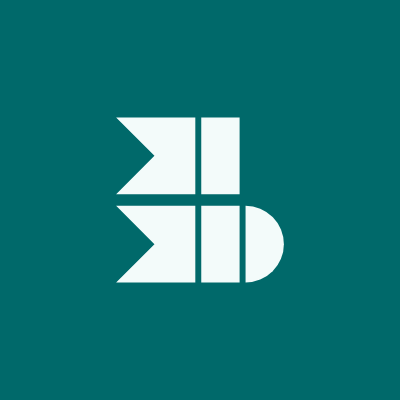
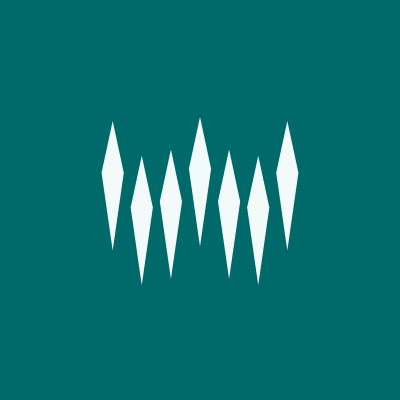
New mark: seven compass needles on a w
The logo is now seven compass needles, the seven stars of the Plough that point
north. Sharp at both ends, one tone, all the same length; their feet stand on a
smooth w and their points repeat it, so they read as spruce, an aurora curtain
and the w of boreal.work. Rebalanced on the 32 grid for the optical centre so
the favicon no longer sits high.

MARK_PATHS holds the seven needles. The eyebrow is NeedleMark (one needle laid
on its side, pointing at the label), bullets are PointMark (the north point),
and the card hover slides in a needle. Regenerated the brand SVGs, icon.svg,
favicon.ico, apple-icon.png, the share image mark and the X stills; brand.md
and tokens.json describe the new construction.

Changed region(s): [[0.24, 0.27, 0.75, 0.72]]

diff --git a/apps/web/src/components/brand.tsx b/apps/web/src/components/brand.tsx
@@ -1,52 +1,51 @@
 import Link from "next/link";
 
 /**
- * The boreal.work mark: two rockets moving forward in step. The top band is the AI agent (square head),
- * the bottom band is the person (a load and a round head, flying out ahead). Bodies light, heads solid.
- * Gaps: 0.9 units within a band, 1.75 between the bands (32 grid); see brand.md, "Logo". Also in icon.svg, opengraph-image.tsx
- * and apps/film/src/XProfile.tsx: keep the paths in sync.
+ * The boreal.work mark: seven compass needles, the seven stars of the Plough that point travellers
+ * north. Each needle is sharp at both ends, widest 40% below its north point, all the same length
+ * (17.5 units). Their feet stand on a smooth w and their points repeat it higher up: grouped they
+ * stand like spruce, and they hang like an aurora curtain. One tone. Rebalanced on the 32 grid so
+ * it sits in the optical centre (box centre and mass centre averaged). See brand.md, "Logo".
+ * Also in icon.svg, opengraph-image.tsx and apps/film/src/XProfile.tsx: keep the paths in sync.
  */
 export const MARK_PATHS = {
-  topTail: "M3.29 3.5H15.29V15.125H3.29L9.1 9.31Z",
-  topHead: "M16.19 3.5H22V15.125H16.19Z",
-  botTail: "M3.29 16.875H15.29V28.5H3.29L9.1 22.69Z",
-  botLoad: "M16.19 16.875H22V28.5H16.19Z",
-  botHead: "M22.9 16.875A5.81 5.81 0 0 1 22.9 28.5Z",
+  needles: [
+    "M4.2 22.83L2.7 12.33L4.2 5.33L5.7 12.33Z",
+    "M8.13 27.52L6.63 17.02L8.13 10.02L9.63 17.02Z",
+    "M12.07 26.69L10.57 16.19L12.07 9.19L13.57 16.19Z",
+    "M16 22.27L14.5 11.77L16 4.77L17.5 11.77Z",
+    "M19.93 26.69L18.43 16.19L19.93 9.19L21.43 16.19Z",
+    "M23.87 27.52L22.37 17.02L23.87 10.02L25.37 17.02Z",
+    "M27.8 22.83L26.3 12.33L27.8 5.33L29.3 12.33Z",
+  ],
 } as const;
 
 export function BorealMark({ className = "size-6" }: { className?: string }) {
   return (
     <svg viewBox="0 0 32 32" className={className} aria-hidden="true">
-      <g className="fill-primary">
-        <path d={MARK_PATHS.topTail} />
-        <path d={MARK_PATHS.topHead} />
-        <path d={MARK_PATHS.botTail} />
-        <path d={MARK_PATHS.botLoad} />
-        <path d={MARK_PATHS.botHead} />
-      </g>
+      <path className="fill-primary" d={MARK_PATHS.needles.join("")} />
     </svg>
   );
 }
 
 /**
- * The eyebrow mark: the logo's first band on its own, its notched tail faded and its square tip
- * solid, like a bookmark ribbon on the label. The only place the mark keeps two tones; the logo
- * itself is one. Both pieces are the mark's own paths, never redrawn. On arrival the band unrolls
- * from its notched end, once (globals.css: .ribbon-mark); still for less motion.
+ * The eyebrow mark: one needle from the logo, laid on its side so it points at the label, the way
+ * the work moves. Same proportions as the mark's needles (17.5 long, 3 wide, widest 7 from the point).
+ * On arrival it slides out from its tail, once (globals.css: .needle-mark); still for less motion.
  */
-export function RibbonMark({ className = "h-2.5 w-auto" }: { className?: string }) {
+export function NeedleMark({ className = "h-auto w-5" }: { className?: string }) {
   return (
-    <svg viewBox="3.29 3.5 18.71 11.625" className={`ribbon-mark ${className}`} aria-hidden="true">
-      <path d={MARK_PATHS.topTail} fill="currentColor" opacity={0.45} />
-      <path d={MARK_PATHS.topHead} fill="currentColor" />
+    <svg viewBox="0 0 17.5 3" className={`needle-mark ${className}`} aria-hidden="true">
+      <path d="M0 1.5L10.5 0L17.5 1.5L10.5 3Z" fill="currentColor" />
     </svg>
   );
 }
 
-export function HeadMark({ className = "size-2" }: { className?: string }) {
+/** A bullet: the needle's north point alone, a short compass diamond. */
+export function PointMark({ className = "h-2.5 w-1.25" }: { className?: string }) {
   return (
-    <svg viewBox="22.9 16.875 5.81 11.625" className={className} aria-hidden="true">
-      <path d={MARK_PATHS.botHead} className="fill-current" />
+    <svg viewBox="0 0 4 8" className={className} aria-hidden="true">
+      <path d="M2 8L0 3.2L2 0L4 3.2Z" className="fill-current" />
     </svg>
   );
 }
@@ -64,7 +63,7 @@ export function BorealLogo() {
 export function Eyebrow({ children }: { children: React.ReactNode }) {
   return (
     <p className="flex items-center gap-2.5 font-mono text-xs font-medium tracking-[0.18em] text-primary uppercase">
-      <RibbonMark />
+      <NeedleMark />
       {children}
     </p>
   );

diff --git a/apps/web/src/app/tasks/[id]/page.tsx b/apps/web/src/app/tasks/[id]/page.tsx
@@ -7,7 +7,7 @@ import { notFound } from "next/navigation";
 import { Suspense } from "react";
 
 import { claimTask, disputeVerdict, releaseTask, submitResult } from "@/app/actions";
-import { HeadMark } from "@/components/brand";
+import { PointMark } from "@/components/brand";
 import { RelatedQuestions } from "@/components/related-questions";
 import { PrivateReviewNote } from "@/components/private-review";
 import { TxLink } from "@/components/tx-link";
@@ -323,7 +323,7 @@ async function TaskDetail({ params }: { params: Promise<{ id: string }> }) {
       <div className="flex flex-col gap-6 lg:order-1">
         <div className="flex flex-col gap-3">
           <h1 className="text-3xl leading-tight font-light tracking-[-0.03em] text-balance sm:text-4xl">{task.description}</h1>
-          {/* Then when it's due and the quiet facts on one line, and what it needs with the brand's round head. */}
+          {/* Then when it's due and the quiet facts on one line, and what it needs with the needle's point. */}
           {(() => {
             const facts = [
               `Due ${when(task.deadline)}`,
@@ -343,7 +343,7 @@ async function TaskDetail({ params }: { params: Promise<{ id: string }> }) {
                 <p>{facts.join(" · ")}</p>
                 {needs.length > 0 && (
                   <p className="flex items-center gap-2 text-foreground">
-                    <HeadMark className="h-2.5 w-1.25 text-primary" /> Needs {needs.join(" · ")}
+                    <PointMark className="h-2.5 w-1.25 text-primary" /> Needs {needs.join(" · ")}
                   </p>
                 )}
               </div>

diff --git a/apps/web/src/app/globals.css b/apps/web/src/app/globals.css
@@ -228,21 +228,21 @@
 }
 
 
-/* The eyebrow's ribbon (components/brand.tsx, RibbonMark): the logo's first chevron unrolls from
-   its notched end when the label arrives, once. */
-.ribbon-mark {
-  animation: ribbon-in 700ms cubic-bezier(0.16, 1, 0.3, 1) both;
+/* The eyebrow's needle (components/brand.tsx, NeedleMark): one needle from the logo slides out
+   from its tail toward the label when it arrives, once. */
+.needle-mark {
+  animation: needle-in 700ms cubic-bezier(0.16, 1, 0.3, 1) both;
 }
-@keyframes ribbon-in {
+@keyframes needle-in {
   from { clip-path: inset(0 100% 0 0); }
   to { clip-path: inset(0 0 0 0); }
 }
 @media (prefers-reduced-motion: reduce) {
-  .ribbon-mark { animation: none; }
+  .needle-mark { animation: none; }
 }
 
-/* The brand's card (task cards and other lists you can open): on hover the mark's round head slides
-   in at the card's left edge, the semicircle from the logo, instead of a lift or a glow. */
+/* The brand's card (task cards and other lists you can open): on hover one of the mark's needles
+   slides in at the card's left edge, pointing into the card, instead of a lift or a glow. */
 .brand-card {
   position: relative;
   isolation: isolate;
@@ -253,9 +253,9 @@
   position: absolute;
   left: 0;
   top: 1.75rem;
-  width: 0.5rem;
-  height: 1rem;
-  border-radius: 0 999px 999px 0;
+  width: 1.25rem;
+  height: 0.375rem;
+  clip-path: polygon(0 50%, 60% 0, 100% 50%, 60% 100%);
   background: var(--primary);
   transform: translateX(-100%);
   transition: transform 400ms cubic-bezier(0.16, 1, 0.3, 1);

diff --git a/apps/film/src/XProfile.tsx b/apps/film/src/XProfile.tsx
@@ -13,14 +13,16 @@ const NIGHT = "#0b2326";
 const NIGHT_DEEP = "#061416";
 const SNOW = "#f3fbfa";
 
-/** The site's mark (apps/web/src/components/brand.tsx, MARK_PATHS): two rockets in step, one tone. */
+/** The site's mark (apps/web/src/components/brand.tsx, MARK_PATHS): seven compass needles, one tone. */
 const Mark = ({ color = SNOW }: { color?: string }) => (
   <g fill={color}>
-    <path d="M3.29 3.5H15.29V15.125H3.29L9.1 9.31Z" />
-    <path d="M16.19 3.5H22V15.125H16.19Z" />
-    <path d="M3.29 16.875H15.29V28.5H3.29L9.1 22.69Z" />
-    <path d="M16.19 16.875H22V28.5H16.19Z" />
-    <path d="M22.9 16.875A5.81 5.81 0 0 1 22.9 28.5Z" />
+    <path d="M4.2 22.83L2.7 12.33L4.2 5.33L5.7 12.33Z" />
+    <path d="M8.13 27.52L6.63 17.02L8.13 10.02L9.63 17.02Z" />
+    <path d="M12.07 26.69L10.57 16.19L12.07 9.19L13.57 16.19Z" />
+    <path d="M16 22.27L14.5 11.77L16 4.77L17.5 11.77Z" />
+    <path d="M19.93 26.69L18.43 16.19L19.93 9.19L21.43 16.19Z" />
+    <path d="M23.87 27.52L22.37 17.02L23.87 10.02L25.37 17.02Z" />
+    <path d="M27.8 22.83L26.3 12.33L27.8 5.33L29.3 12.33Z" />
   </g>
 );
 
@@ -29,7 +31,7 @@ export const XAvatar = () => (
     <svg viewBox="0 0 400 400" width={400} height={400}>
       {/* Flat Aurora Teal; X crops to a circle, so the mark sits centred with room to breathe. */}
       <rect width="400" height="400" fill={TEAL} />
-      <g transform="translate(200 200) scale(6.6) translate(-16 -16)">
+      <g transform="translate(200 200) scale(7.4) translate(-16 -16)">
         <Mark />
       </g>
     </svg>

diff --git a/apps/web/src/app/opengraph-image.tsx b/apps/web/src/app/opengraph-image.tsx
@@ -36,13 +36,15 @@ export default function OpengraphImage() {
           <path d={trees} fill="#4a7b78" />
         </svg>
         <div style={{ display: "flex", alignItems: "center", gap: 16, fontSize: 34, color: "#1b2a30", fontWeight: 600 }}>
-          {/* The mark (components/brand.tsx, MARK_PATHS): one tone. */}
+          {/* The mark (components/brand.tsx, MARK_PATHS): seven needles, one tone. */}
           <svg width="52" height="52" viewBox="0 0 32 32">
-            <path d="M3.29 3.5H15.29V15.125H3.29L9.1 9.31Z" fill="#00696a" />
-            <path d="M16.19 3.5H22V15.125H16.19Z" fill="#00696a" />
-            <path d="M3.29 16.875H15.29V28.5H3.29L9.1 22.69Z" fill="#00696a" />
-            <path d="M16.19 16.875H22V28.5H16.19Z" fill="#00696a" />
-            <path d="M22.9 16.875A5.81 5.81 0 0 1 22.9 28.5Z" fill="#00696a" />
+            <path d="M4.2 22.83L2.7 12.33L4.2 5.33L5.7 12.33Z" fill="#00696a" />
+            <path d="M8.13 27.52L6.63 17.02L8.13 10.02L9.63 17.02Z" fill="#00696a" />
+            <path d="M12.07 26.69L10.57 16.19L12.07 9.19L13.57 16.19Z" fill="#00696a" />
+            <path d="M16 22.27L14.5 11.77L16 4.77L17.5 11.77Z" fill="#00696a" />
+            <path d="M19.93 26.69L18.43 16.19L19.93 9.19L21.43 16.19Z" fill="#00696a" />
+            <path d="M23.87 27.52L22.37 17.02L23.87 10.02L25.37 17.02Z" fill="#00696a" />
+            <path d="M27.8 22.83L26.3 12.33L27.8 5.33L29.3 12.33Z" fill="#00696a" />
           </svg>
           boreal.work
         </div>

diff --git a/apps/web/src/components/task-card.tsx b/apps/web/src/components/task-card.tsx
@@ -3,7 +3,7 @@ import type { RequesterKind } from "@boreal/desk";
 import { ArrowRight, BadgeCheck, Camera, Clock, FileText, PenLine, Store, UserCheck } from "lucide-react";
 import Link from "next/link";
 
-import { HeadMark } from "@/components/brand";
+import { PointMark } from "@/components/brand";
 import { Badge } from "@/components/ui/badge";
 import { attributeLabel, usd, when, WORKER_STATUS } from "@/lib/format";
 import { RAIL_LABEL } from "@/lib/rails";
@@ -22,8 +22,8 @@ const POSTED_BY: Partial<Record<RequesterKind, { icon: typeof BadgeCheck; label:
 
 /**
  * A task as a worker scans it: what to do and the pay first, then the format and deadline, then
- * one quiet line for what it needs and how it pays. The whole card is the link; on hover the
- * brand's round head slides in at its edge (globals.css: .brand-card).
+ * one quiet line for what it needs and how it pays. The whole card is the link; on hover
+ * a needle from the mark slides in at its edge (globals.css: .brand-card).
  */
 export function TaskCard({
   task,
@@ -79,7 +79,7 @@ export function TaskCard({
           )}
           {needs.length > 0 && (
             <span className="flex items-center gap-2 text-foreground">
-              <HeadMark className="h-2.5 w-1.25 shrink-0 text-primary" />
+              <PointMark className="h-2.5 w-1.25 shrink-0 text-primary" />
               Needs {needs.join(" · ")}
             </span>
           )}

diff --git a/apps/web/src/app/signin/page.tsx b/apps/web/src/app/signin/page.tsx
@@ -6,7 +6,7 @@ import { Suspense } from "react";
 import { signIn } from "@/app/actions";
 import { RelatedQuestions } from "@/components/related-questions";
 import { PayPalLoginButton } from "@/components/paypal-brand";
-import { Eyebrow, HeadMark } from "@/components/brand";
+import { Eyebrow, PointMark } from "@/components/brand";
 import { ConcordiumSignIn } from "@/components/concordium-sign-in";
 import { ConcordiumWalletSignIn } from "@/components/concordium-wallet-sign-in";
 import { ZkPassportSignIn } from "@/components/zkpassport-sign-in";
@@ -200,7 +200,7 @@ export default function SignInPage({ searchParams }: { searchParams: Promise<{ n
             <ul className="flex flex-col gap-2 text-sm text-muted-foreground">
               {["A one-way code for your account", "Your PayPal email, only to pay you", "Whether PayPal has verified you"].map((item) => (
                 <li key={item} className="flex gap-2.5">
-                  <HeadMark className="mt-1.5 h-2.5 w-1.25 shrink-0 text-primary" /> {item}
+                  <PointMark className="mt-1.5 h-2.5 w-1.25 shrink-0 text-primary" /> {item}
                 </li>
               ))}
             </ul>

diff --git a/apps/web/src/components/page.tsx b/apps/web/src/components/page.tsx
@@ -1,7 +1,7 @@
 import { ArrowRight, ChevronDown, ChevronRight } from "lucide-react";
 import Link from "next/link";
 
-import { RibbonMark } from "@/components/brand";
+import { NeedleMark } from "@/components/brand";
 import { buttonVariants } from "@/components/ui/button";
 import { cn } from "@/lib/utils";
 
@@ -14,11 +14,11 @@ export function Container({ className, children }: { className?: string; childre
   return <div className={cn("mx-auto w-full max-w-[1280px] px-5 sm:px-8 lg:px-12", className)}>{children}</div>;
 }
 
-/** A small label above a heading: the trail mark (the person's head, flying forward), then the words. */
+/** A small label above a heading: one needle from the logo, pointing at the words, then the words. */
 export function Kicker({ children, className }: { children: React.ReactNode; className?: string }) {
   return (
     <p className={cn("flex items-center gap-2.5 font-mono text-xs font-medium tracking-[0.18em] text-primary uppercase", className)}>
-      <RibbonMark />
+      <NeedleMark />
       {children}
     </p>
   );

diff --git a/apps/web/src/app/page.tsx b/apps/web/src/app/page.tsx
@@ -2,7 +2,7 @@ import { FEE_POLICY, POLICY, quoteFees } from "@boreal/core";
 import type { Metadata } from "next";
 import { ArrowRight, ArrowUpRight } from "lucide-react";
 
-import { HeadMark } from "@/components/brand";
+import { PointMark } from "@/components/brand";
 import { NightBackdrop } from "@/components/night-backdrop";
 import { ClosingBand } from "@/components/closing-band";
 import { CopyBlock } from "@/components/copy-block";
@@ -182,7 +182,7 @@ export default function Home() {
             <ul className="flex flex-wrap gap-x-5 gap-y-2 text-sm text-foreground/75">
               {["Workers keep 100% of their pay", `One fee: ${SERVICE_FEE}`, "Every fail cites a rule"].map((point) => (
                 <li key={point} className="flex items-center gap-2">
-                  <HeadMark className="h-2.5 w-1.25 text-primary" />
+                  <PointMark className="h-2.5 w-1.25 text-primary" />
                   {point}
                 </li>
               ))}

diff --git a/apps/web/src/components/mobile-menu.tsx b/apps/web/src/components/mobile-menu.tsx
@@ -6,7 +6,7 @@ import { usePathname } from "next/navigation";
 import { useEffect, useState, useSyncExternalStore } from "react";
 import { createPortal } from "react-dom";
 
-import { HeadMark } from "@/components/brand";
+import { PointMark } from "@/components/brand";
 import { NAV } from "@/components/nav-links";
 import { cn } from "@/lib/utils";
 
@@ -79,7 +79,7 @@ export function MobileMenu() {
                 )}
               >
                 {item.label}
-                {current && <HeadMark className="h-3 w-1.5 text-primary" />}
+                {current && <PointMark className="h-3 w-1.5 text-primary" />}
               </Link>
             );
           })}

diff --git a/brand.md b/brand.md
@@ -4,7 +4,7 @@
 
 boreal.work is a verified human task desk for AI agents. Agents post the real-world steps they can't do alone, verified people (many of them in the Philippines, on phones) do them, and the money is held in escrow until the result passes review against a public rulebook. Everything here serves one feeling: **calm, trustworthy, human, northern.** Never crypto-flashy.
 
-Status: active · palette chosen 2026-11-01 · logo chosen 2026-11-12
+Status: active · palette chosen 2026-11-01 · logo chosen 2026-11-13
 
 **These rules are strict.** Every page, deck, film, post and agent-written screen follows them. When this book and a habit disagree, this book wins. When it is silent, choose the quieter option. This file is the source of truth; the brand kit (logo files, tokens, social images) is in [`docs/brand/`](docs/brand/).
 
@@ -29,7 +29,7 @@ Status: active · palette chosen 2026-11-01 · logo chosen 2026-11-12
 
 ### The idea
 
-Two rockets moving forward in step. The **top band is the AI agent**: a notched tail and a **square head**. The **bottom band is the person**: the same tail, a rectangular **load**, and a **round head** that flies out ahead. The agent sets the work going; the person carries it over the line. Bodies are in the light tone and heads are solid. The short top over the longer, rounded bottom also reads as a **b**.
+Seven compass needles: the seven stars of the Plough, the Great Bear's tail that travellers follow to find north. Every needle points north, the way the work moves: forward. Grouped, they stand like a ridge of **spruce**, the boreal forest. Their feet stand on a smooth **w** and their points repeat it higher up, so the whole mark hangs like an **aurora** curtain, and spells the w of boreal.work. North, trees and the northern lights in one shape.
 
 ### Files
 
@@ -46,10 +46,11 @@ Use these files or `BorealMark`. Never redraw the mark by eye.
 
 ### Construction
 
-- A 32-unit grid. Each band is 11.625 units tall.
-- 1.75 units between the two bands; 0.9 units between the pieces inside a band, so each band reads as one body.
-- Both tails start on the same line. The agent's square head sits exactly over the person's load. The round head is the only piece beyond that column.
-- One tone: every piece in the full ink (white on the teal tile). The gaps between pieces carry the shape. The two-tone first band (faded tail, solid head) is kept for the eyebrow mark only.
+- A 32-unit grid. Seven needles, evenly spaced, 3.93 units apart, centre to centre.
+- Each needle is a long lozenge, sharp at both ends: 17.5 units long, 3 units wide at its widest, which is 7 units (40%) below its north point. All seven are the same length.
+- The feet sit on one smooth w (two valleys, a shallower middle peak); the points repeat that w 17.5 units higher.
+- Rebalanced for the optical centre: the mark is placed so the midpoint of its box centre and its mass centre falls on the grid centre, since the needles are heaviest high up.
+- One tone: every needle in the full ink (white on the teal tile). No gradient, outline or second tone. On the app tile the mark is scaled to 84%.
 
 ### Lockup
 
@@ -57,16 +58,16 @@ Mark, then **boreal.work** in Manrope semibold. In the header the mark is 24 px 
 
 ### Clear space and size
 
-- Clear space on every side: at least one head width (about a fifth of the mark's width). Nothing (text, edges, other logos) inside it.
+- Clear space on every side: at least one needle spacing (about a seventh of the mark's width). Nothing (text, edges, other logos) inside it.
 - Minimum: 20 px freestanding, 16 px as the app icon.
 
 ### Never
 
-- Rotate, flip, skew, stretch or animate the pieces apart.
-- Change the order: the agent stays on top; the person's round head always leads.
-- Close the gaps, make them uneven, or join the pieces into one shape.
+- Rotate, flip, skew, stretch or animate the needles apart.
+- Change the count, the spacing or the lengths; seven needles, always the same length.
+- Round the points, join the needles, or draw the w as a line.
 - Add gradients, outlines, shadows, glows or textures.
-- Recolour heads and bodies in different hues, or use any colour but the files' inks and white.
+- Use any colour but the files' inks and white.
 - Put the mark inside any container except the teal app tile.
 - Set the wordmark in another face, in capitals, or without ".work".
 - Make a rounded-box "B": another company already uses one in teal.
@@ -110,13 +111,13 @@ The full set (with `secondary`, `accent`, `input`, `ring`, `chart-1` to `chart-5
 | small | 14 / 1.43 | 400 | | Nav, buttons, table cells |
 | label | 14 / 1.43 (16 in the lockup) | 600 | -0.015em | Wordmark, button and form labels |
 | money | 24 / 1.25 | 300 | -0.025em | Task amounts, `text-primary`, `tabular-nums` |
-| eyebrow | 12 / 1.33, mono, uppercase | 500 | 0.18em | Labels above headings, after the person band (`BandMark`) |
+| eyebrow | 12 / 1.33, mono, uppercase | 500 | 0.18em | Labels above headings, after one needle (`NeedleMark`) |
 | code | 13 / 1.5, mono | 400 | | IDs, hashes, rule IDs |
 
 - Headlines are light (300) with tight tracking, sentence case, balanced wrap. Never bold a headline, never set one in capitals.
 - Money is the most prominent number on any task. Figures in tables and stats use tabular numbers.
 - Inter, Roboto and system fonts are fallbacks only, never the brand face.
-- **Marks from the logo, not rules or dashes.** An eyebrow starts with `BandMark`, the mark's person band (tail, load, round head) at 10 px tall in `primary`. A short list's bullet is `HeadMark`, the round head alone. Never a hairline or an em dash as an ornament.
+- **Marks from the logo, not rules or dashes.** An eyebrow starts with `NeedleMark`, one of the mark's needles laid on its side, pointing at the label, 20 px long in `primary`. A short list's bullet is `PointMark`, the needle's north point alone. Never a hairline or an em dash as an ornament.
 
 ## Voice and copy
 
